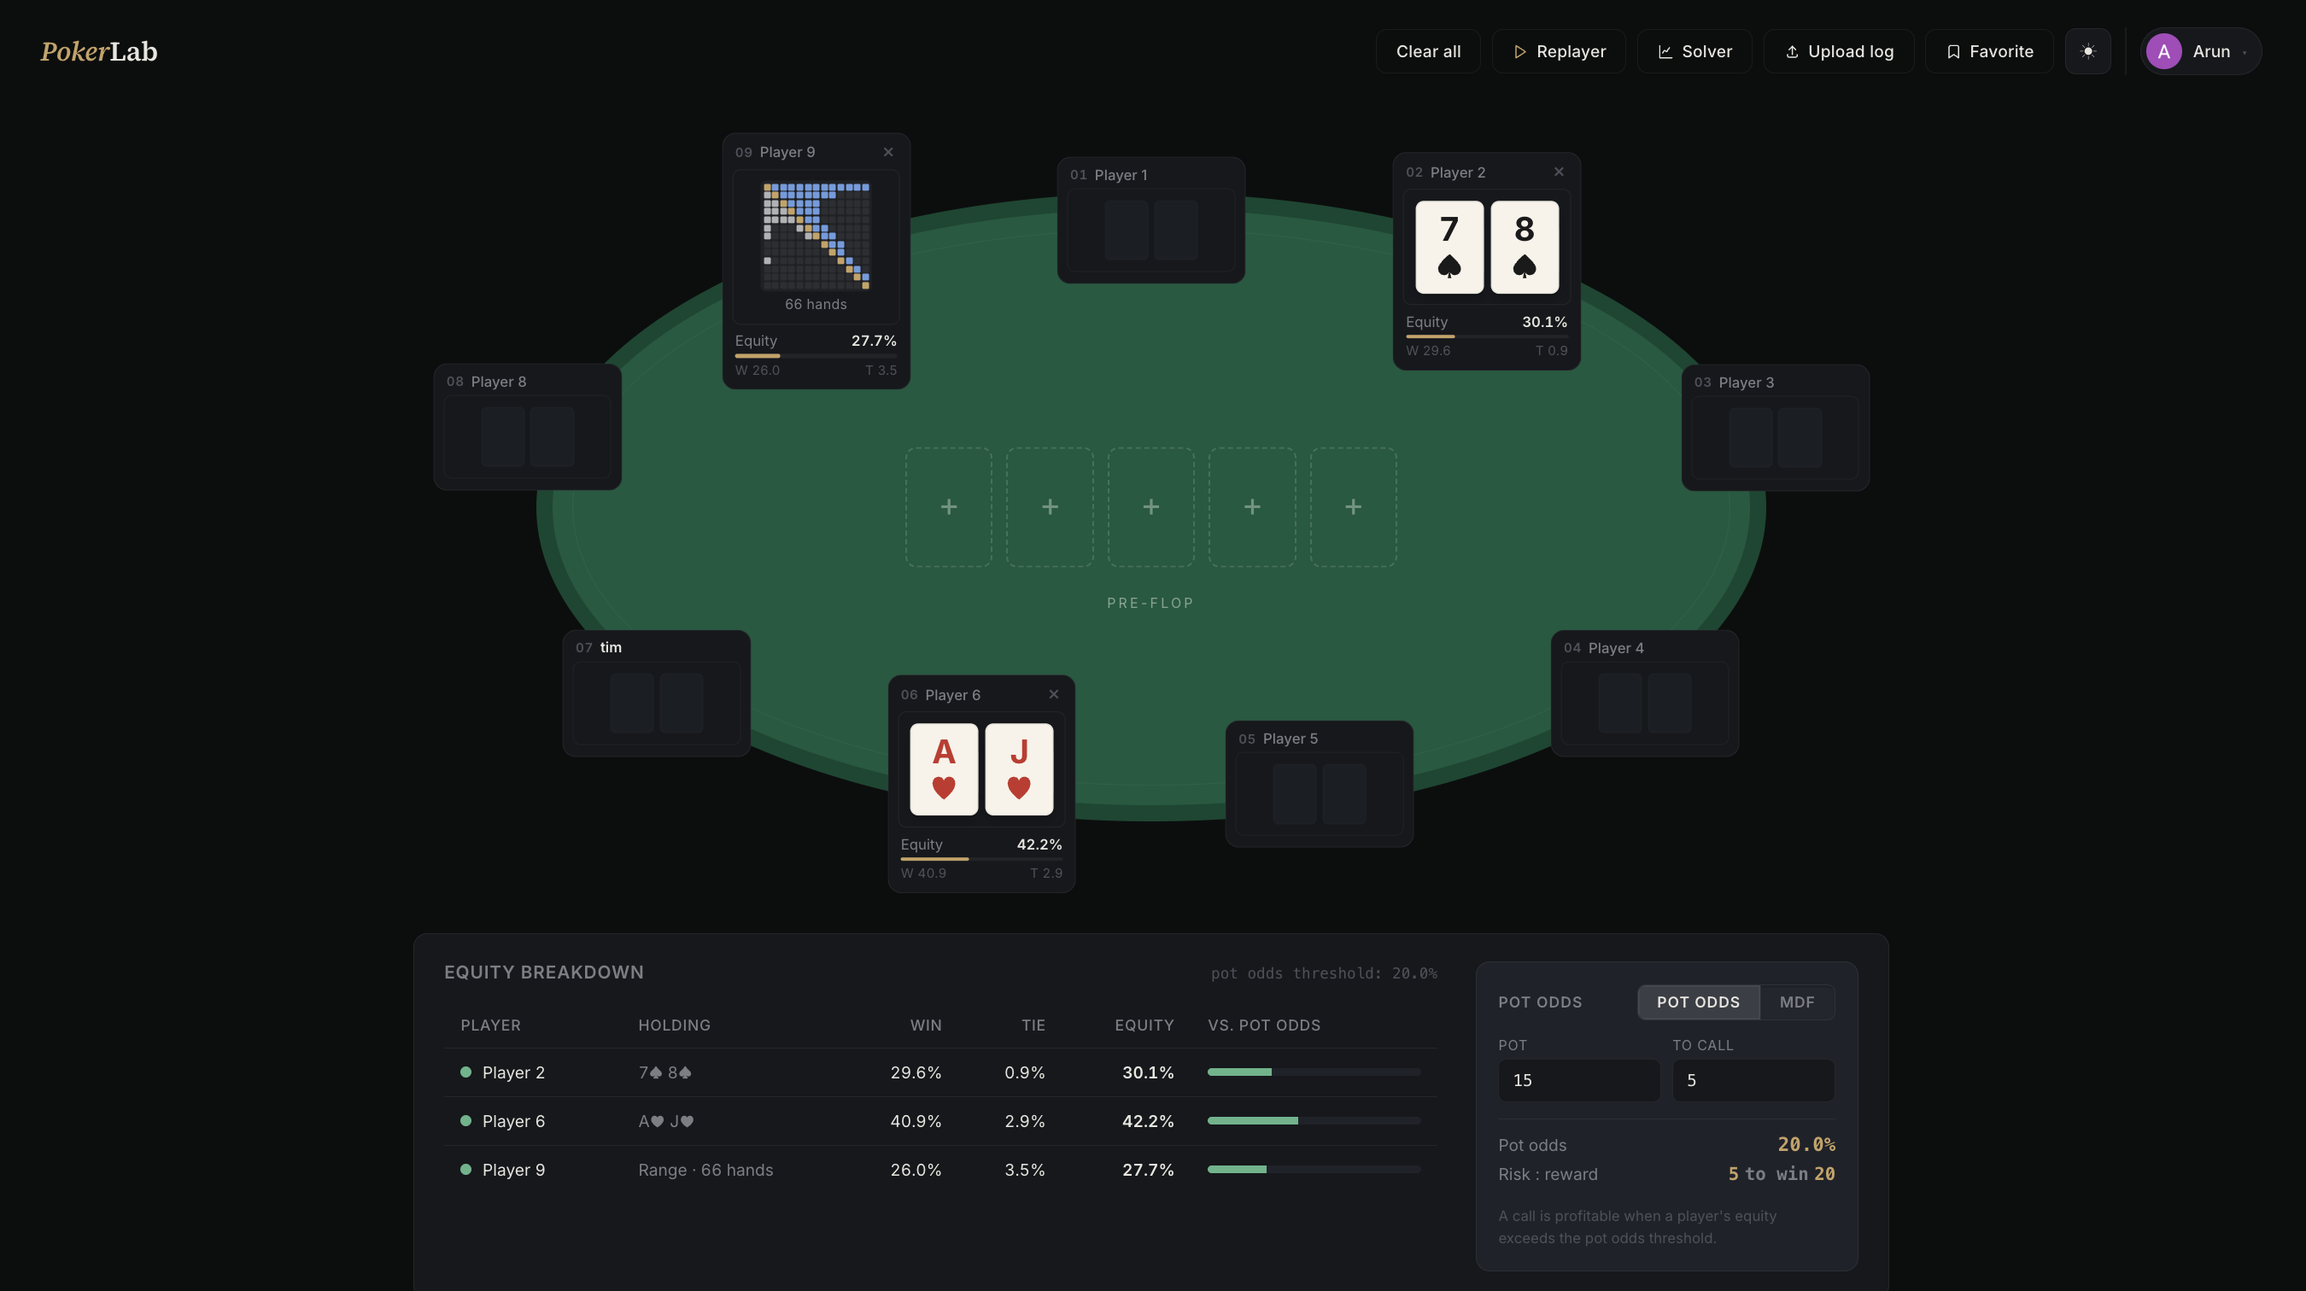
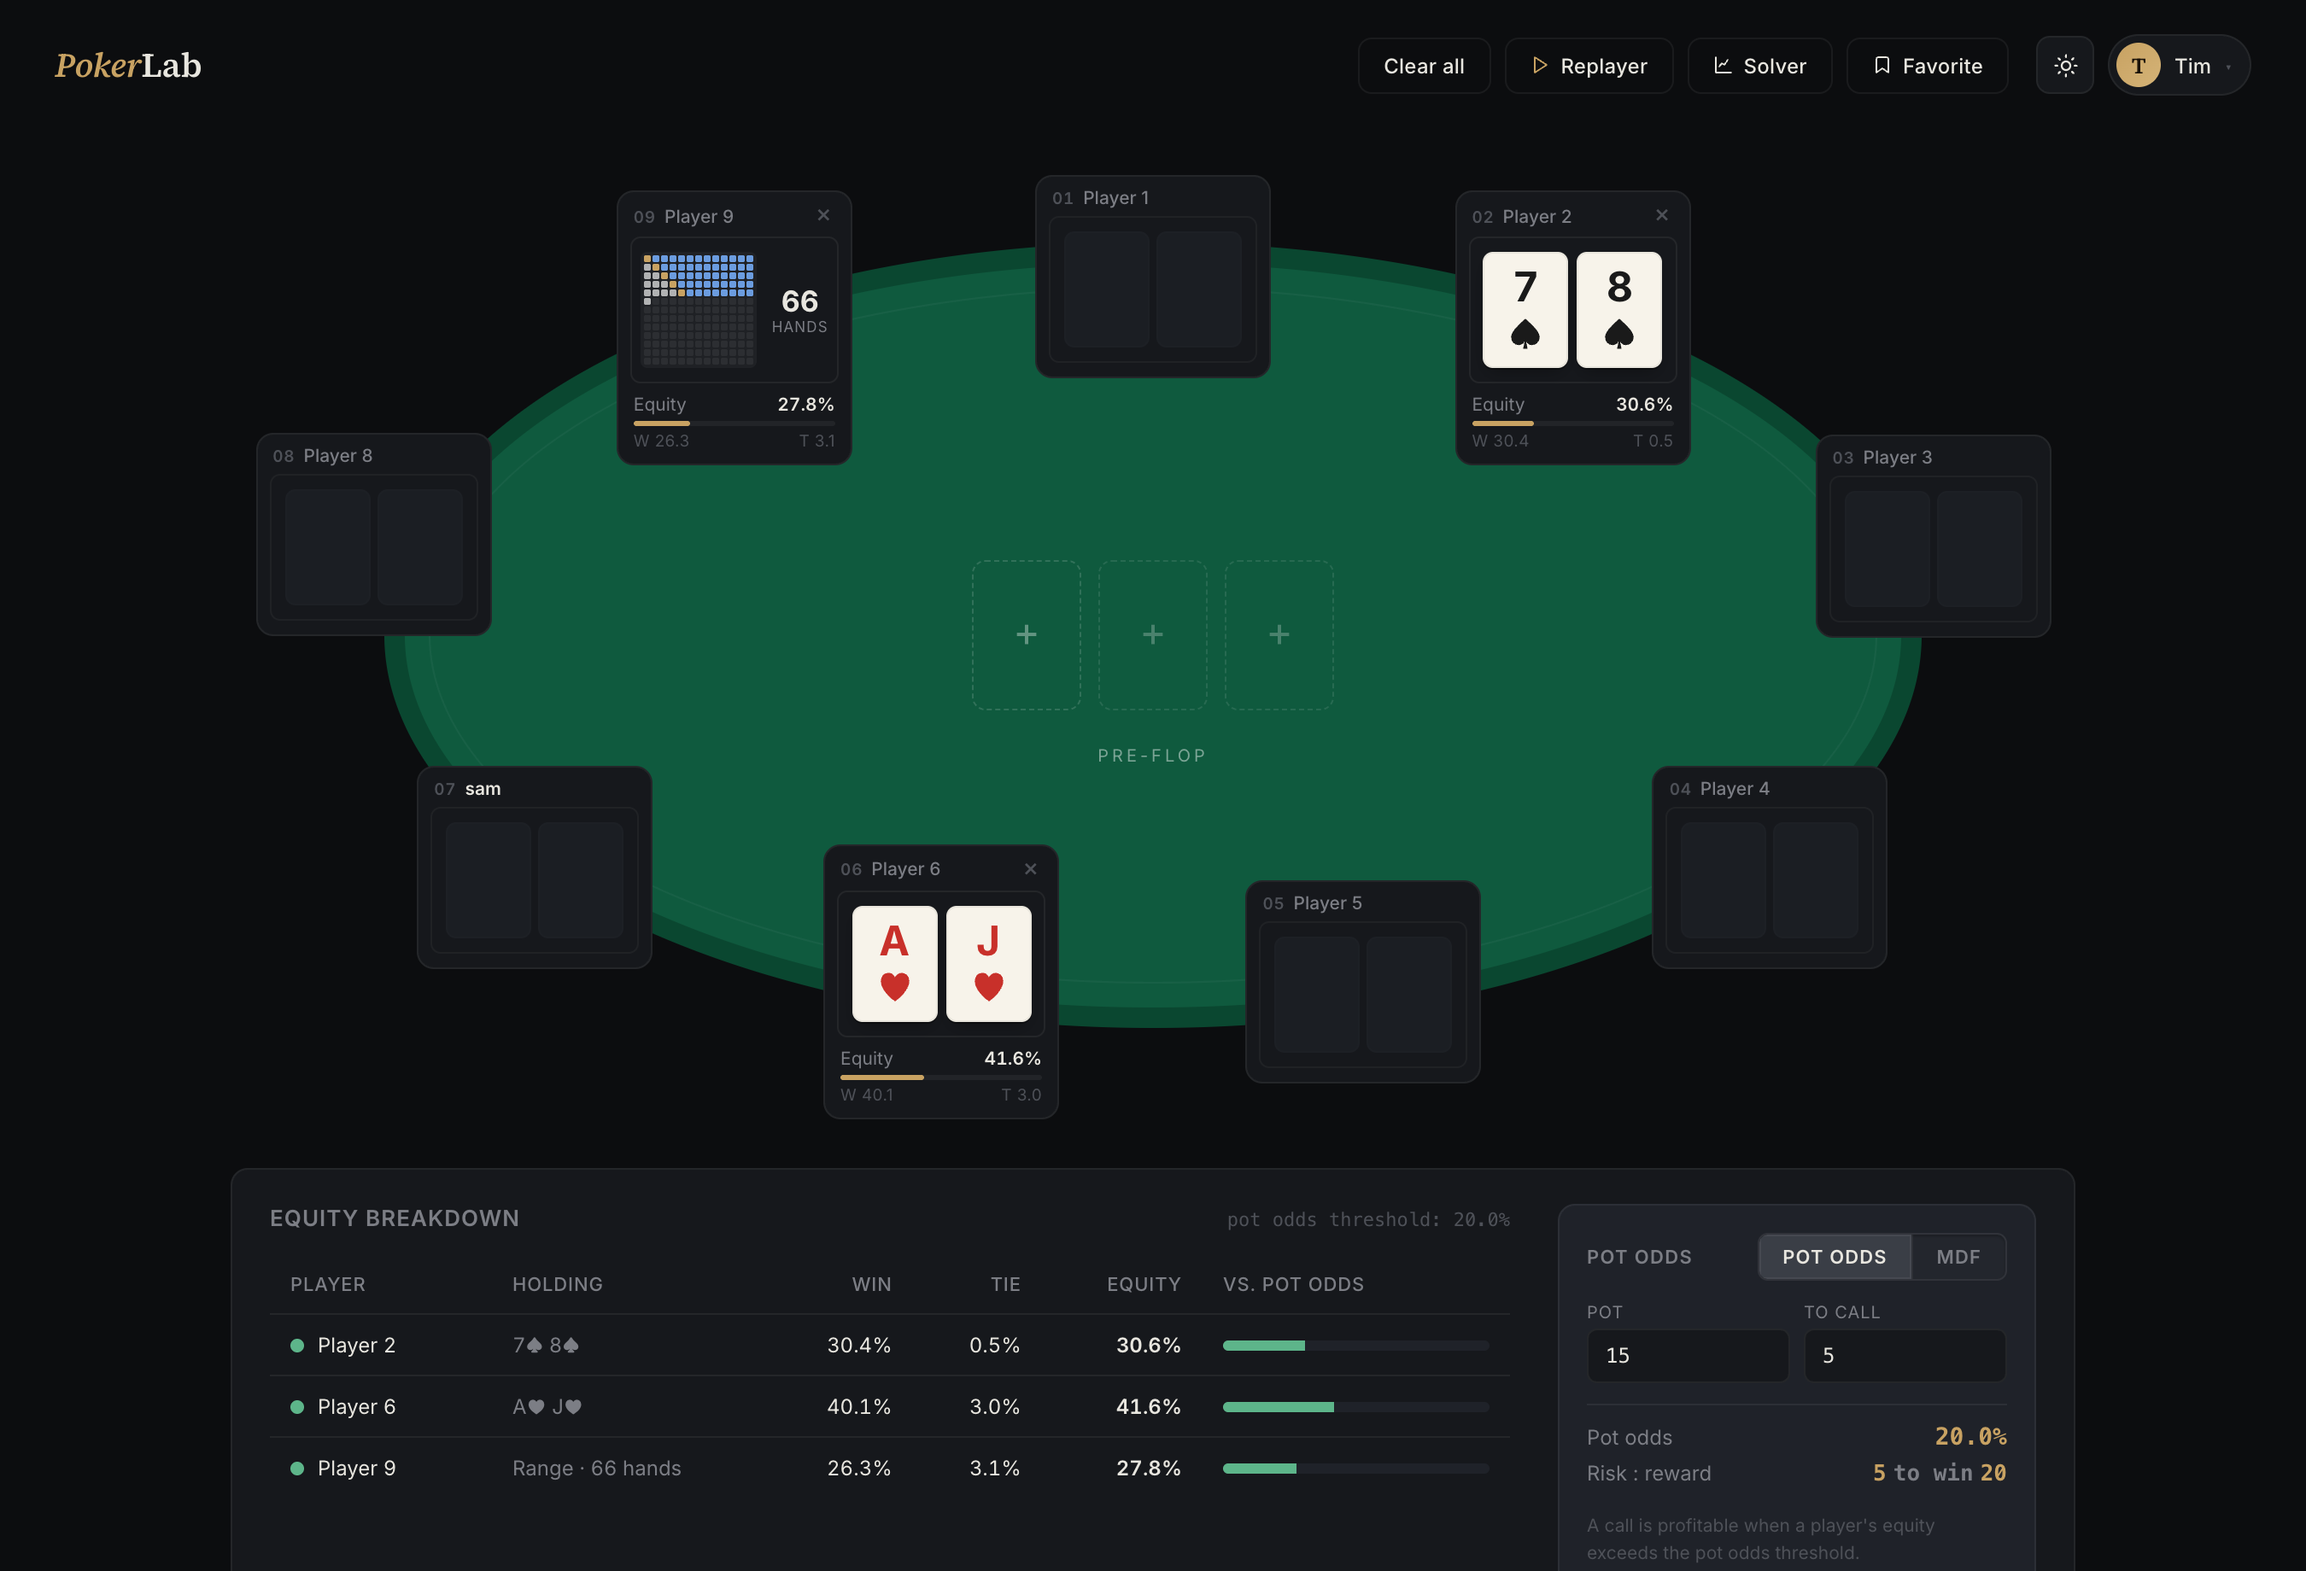
improve mobile UI

diff --git a/frontend/src/App.jsx b/frontend/src/App.jsx
@@ -62,18 +62,17 @@ function computeSeatPositions(rx_pct, ry_pct, STAGE_W, STAGE_H) {
 
 // desktop landscape stage vs near-portrait stage for phones
 const CALC_STAGE = { w: 1080, h: 600 };
-const CALC_STAGE_COMPACT = { w: 500, h: 860 };
-// portrait stage: the board row gets its own channel between the mid-side seat
-// rows; 52.4% is as centered as it gets without re-colliding the upper seats
-const COMPACT_BOARD_Y = 52.4;
+const CALC_STAGE_COMPACT = { w: 500, h: 916 };
+// board dead-center on the felt; compact plates are slimmed (see styles) so
+// the full 9-seat ring fits
+const COMPACT_BOARD_Y = 50;
 const SEAT_POSITIONS = computeSeatPositions(44, 35, CALC_STAGE.w, CALC_STAGE.h);
 const SEAT_POSITIONS_COMPACT = (() => {
-  const pos = computeSeatPositions(36, 41, CALC_STAGE_COMPACT.w, CALC_STAGE_COMPACT.h);
-  const nudge = (i, dx, dy) => { pos[i] = { x: pos[i].x + dx, y: pos[i].y + dy }; };
-  nudge(1, 0.6, 0); nudge(8, -0.6, 0);
-  nudge(2, 0, -5.6); nudge(7, 0, -5.6);
-  nudge(3, 0, 2.1); nudge(6, 0, 2.1);
-  nudge(4, 0, 0.9); nudge(5, 0, 0.9);
+  const pos = computeSeatPositions(36.5, 41.5, CALC_STAGE_COMPACT.w, CALC_STAGE_COMPACT.h);
+  // the arc parks the mid-side seats just above center, on the centered board's
+  // row — lift them (and the lower sides a touch) clear of it
+  [2, 7].forEach((i) => { pos[i] = { ...pos[i], y: pos[i].y - 5.5 }; });
+  [3, 6].forEach((i) => { pos[i] = { ...pos[i], y: pos[i].y - 2.0 }; });
   return pos;
 })();
 
@@ -780,7 +779,7 @@ export default function App() {
             {/* Board */}
             <div
               className={"board-label" + (!validBoard ? ' board-label-warn' : '')}
-              style={compact ? { top: `calc(${COMPACT_BOARD_Y}% + 50px)` } : null}
+              style={compact ? { top: `calc(${COMPACT_BOARD_Y}% + 48px)` } : null}
             >
               {board.length === 0 ? 'Pre-flop' :
                board.length === 1 ? 'Incomplete flop · need 2 more cards' :
@@ -790,7 +789,7 @@ export default function App() {
                'River'}
             </div>
             <div className="board" style={compact ? { top: COMPACT_BOARD_Y + '%' } : null}>
-              <BoardStrip board={board} onDeal={onDealBoard} onClearFrom={onClearBoardFrom} size={compact ? 'mdr' : 'lg'} />
+              <BoardStrip board={board} onDeal={onDealBoard} onClearFrom={onClearBoardFrom} size={compact ? 'md' : 'lg'} />
             </div>
             {/* Seats */}
             {(compact ? SEAT_POSITIONS_COMPACT : SEAT_POSITIONS).map((pos, i) => (

diff --git a/frontend/src/styles.css b/frontend/src/styles.css
@@ -150,12 +150,18 @@ body {
 .stage.compact .felt { inset: 36px 18px; }
 .stage.compact .board { gap: 6px; }
 .stage.compact .board-label { top: calc(50% + 50px); max-width: 320px; text-align: center; }
-/* compact plates: drop the W/T microtext, slim the chrome */
+/* compact plates: slim the chrome so the full 9-seat ring fits the oval */
 .stage.compact .seat-equity-row.sub { display: none; }
-.stage.compact .seat-wrap { width: 132px; }
-.stage.compact .range-mini { gap: 7px; }
-.stage.compact .seat { padding: 5px 6px 6px; gap: 3px; }
-.stage.compact .seat-body { padding: 6px 4px; }
+.stage.compact .seat-wrap { width: 118px; }
+.stage.compact .seat { padding: 4px 6px 5px; gap: 2px; }
+.stage.compact .seat-body { padding: 3px; }
+.stage.compact .seat-equity { flex-direction: row; align-items: center; gap: 5px; padding: 1px 2px 0; }
+.stage.compact .seat-equity-label { display: none; }
+.stage.compact .equity-bar { flex: 1 1 auto; height: 3px; }
+.stage.compact .range-mini { gap: 6px; }
+.stage.compact .range-mini-grid { grid-template-columns: repeat(13, 3.25px); grid-template-rows: repeat(13, 3.25px); }
+.stage.compact .rmc { width: 3.25px; height: 3.25px; }
+.stage.compact .range-mini-count { font-size: 15px; }
 
 /* Board cards row */
 .board-remove-btn {

diff --git a/frontend/src/Seat.jsx b/frontend/src/Seat.jsx
@@ -13,7 +13,7 @@ export function PlayerSeat({
   onRename,
   compact = false,
 }) {
-  const cardSize = 'md';
+  const cardSize = compact ? 'bd' : 'md';
   const [editing, setEditing] = useState(false);
   const [draft, setDraft] = useState(name || '');
   const inputRef = useRef(null);
